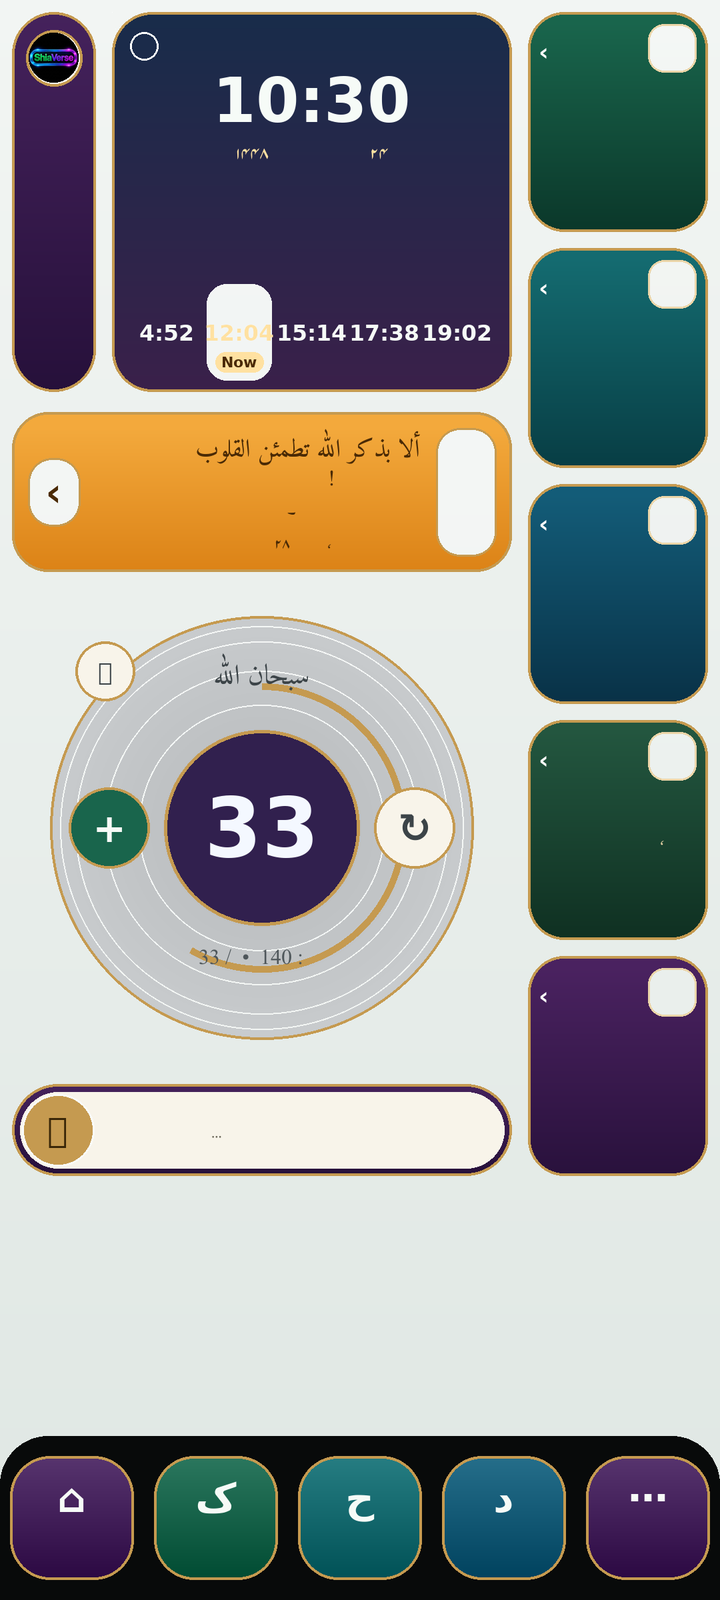
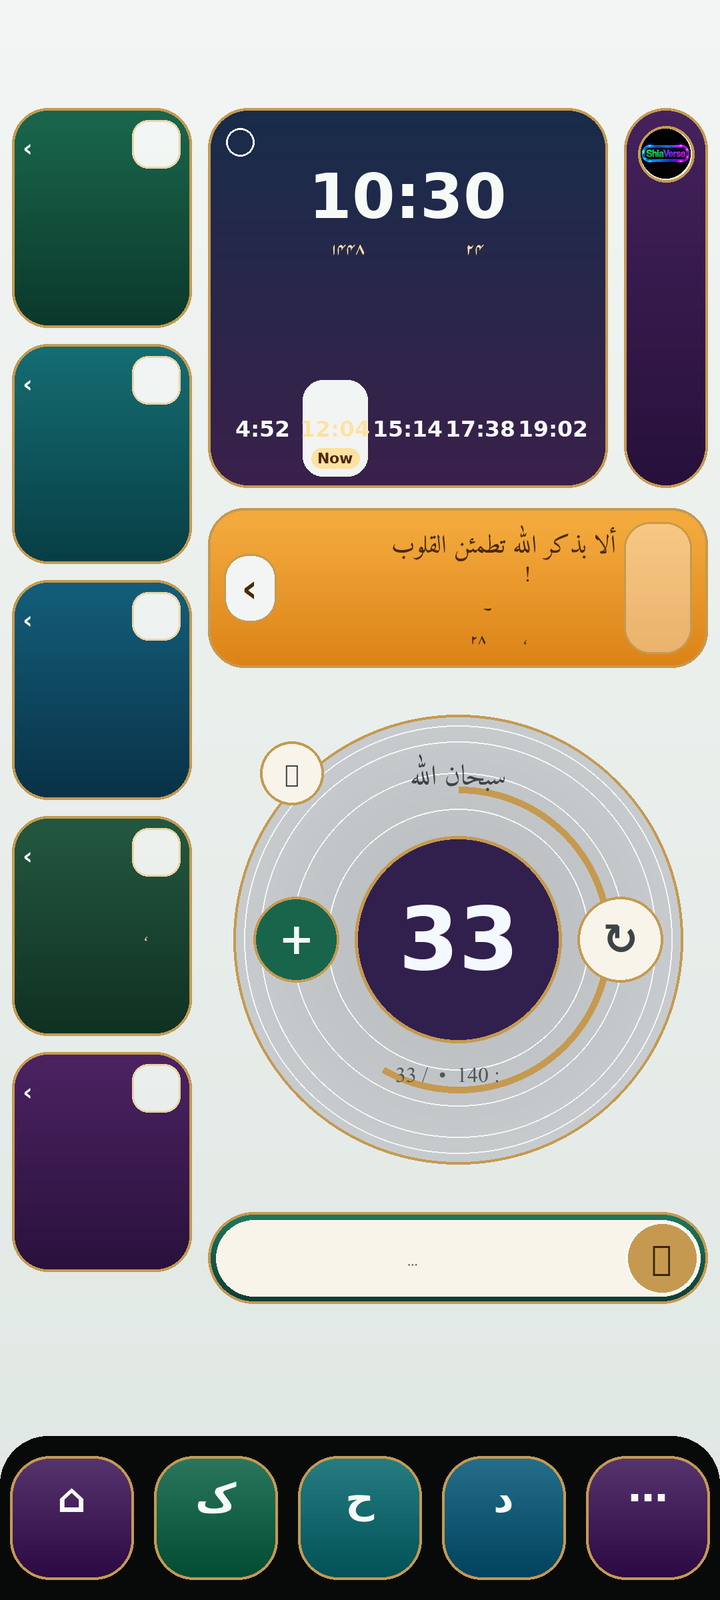
Lay the ayah/hadith tag out along the moment card's edge
A rotated box reads its constraints bottom-up, so the row now lays its members
out top-to-bottom and the tag is a full-height pill; the preview renderer draws
the same thing. Docs and README name the preview and the 610-tall canvas.

diff --git a/app/lib/widgets/home_dashboard.dart b/app/lib/widgets/home_dashboard.dart
@@ -802,6 +802,10 @@ class _MomentCardState extends State<_MomentCard> {
             ],
           ),
           child: Row(
+            // The tag is written along the card's edge (rotated a quarter
+            // turn), and a turned box reads its constraints bottom-up: the
+            // row's boxes are laid out from the top.
+            verticalDirection: VerticalDirection.up,
             crossAxisAlignment: CrossAxisAlignment.stretch,
             children: <Widget>[
               _MomentTag(kind: line.kind),
@@ -895,11 +899,12 @@ class _MomentTag extends StatelessWidget {
   Widget build(BuildContext context) {
     final palette = DashboardPalette.of(context);
     return Container(
-      width: 30,
+      width: 34,
+      padding: const EdgeInsets.symmetric(horizontal: 4),
       alignment: Alignment.center,
       decoration: BoxDecoration(
-        color: Colors.white.withValues(alpha: 0.34),
-        borderRadius: BorderRadius.circular(12),
+        color: Colors.white.withValues(alpha: 0.36),
+        borderRadius: BorderRadius.circular(13),
         border: Border.all(color: palette.gold.withValues(alpha: 0.55)),
       ),
       child: RotatedBox(
@@ -911,7 +916,8 @@ class _MomentTag extends StatelessWidget {
             maxLines: 1,
             style: TextStyle(
               fontFamily: kUrduFont,
-              fontSize: 11,
+              fontSize: 11.5,
+              height: 1.1,
               fontWeight: FontWeight.w800,
               color: palette.momentInk,
             ),

diff --git a/scripts/render_home_preview.py b/scripts/render_home_preview.py
@@ -31,6 +31,7 @@ OUTPUT = ROOT / "docs" / "previews" / "home-1-11.png"
 
 S = 3  # supersampling
 W, H = 360, 800
+CANVAS_H = 610  # the dashboard's own canvas; it is centred in what is left
 PAD = 6
 GAP = 8
 ROW_GAP = 10
@@ -144,9 +145,14 @@ def main() -> None:
     canvas.paste(vgradient((W * S, H * S), BG_TOP, BG_BOTTOM).convert("RGBA"), (0, 0))
 
     dock_h = DOCK_PAD * 2 + DOCK_SQUARE
-    top = PAD
-    left_w = W - 2 * PAD - RIGHT_W - GAP
-    block_h = RIGHT_CARD_H * 5 + GAP * 4
+    # The dashboard is one canvas, scaled as a piece and centred in the space
+    # the phone has left above the panel (360 x 800 here: scale 1).
+    top = round((H - dock_h - CANVAS_H) / 2)
+    left_w = W - 2 * PAD - RIGHT_W - GAP      # 242
+    left_x = PAD + RIGHT_W + GAP             # 104
+    rail_x = left_x + left_w - RAIL_W        # 304
+    card_w = left_w - RAIL_W - GAP           # 192
+    block_h = CANVAS_H - 2 * PAD
 
     # ---- 1: the ShiaVerse rail
     rail = card((RAIL_W, PRAYER_H), 21, PLUM, PLUM_DARK)
@@ -160,10 +166,10 @@ def main() -> None:
     spine = Image.new("RGBA", (RAIL_W * S, (PRAYER_H - 60) * S), (0, 0, 0, 0))
     left(ImageDraw.Draw(spine), RAIL_W / 2, (PRAYER_H - 60) / 2, "ShiaVerse", latin(14, True), GOLD_SOFT, anchor="mm")
     rail.alpha_composite(spine.rotate(-90, expand=True), (0, round(50 * S)))
-    canvas.alpha_composite(rail, (PAD * S, top * S))
+    canvas.alpha_composite(rail, (rail_x * S, top * S))
 
     # ---- 2: the mini prayer card
-    pw = left_w - RAIL_W - GAP
+    pw = card_w
     sky = Image.new("RGBA", (round(pw * S), round(PRAYER_H * S)), (0, 0, 0, 0))
     mask = Image.new("L", sky.size, 0)
     ImageDraw.Draw(mask).rounded_rectangle((0, 0, sky.size[0] - 1, sky.size[1] - 1), radius=round(20 * S), fill=255)
@@ -197,7 +203,7 @@ def main() -> None:
                 fill=(255, 225, 161),
             )
             left(sd, x + cell / 2, 175, "Now", latin(7.5, True), (74, 42, 5), anchor="mm")
-    canvas.alpha_composite(sky, ((PAD + RAIL_W + GAP) * S, top * S))
+    canvas.alpha_composite(sky, (left_x * S, top * S))
 
     # ---- 8: ayah / hadith of the moment
     moment = card((left_w, MOMENT_H), 18, AMBER, AMBER_DARK, bias=-0.1)
@@ -208,14 +214,19 @@ def main() -> None:
     ):
         right(md, left_w - 46, 26 + index * 15, line, urdu(11), MOMENT_INK)
     right(md, left_w - 46, 60, "سورہ الرعد، آیت ۲۸", urdu(9), MOMENT_INK)
-    md.rounded_rectangle(
-        (round((left_w - 38) * S), round(8 * S), round((left_w - 8) * S), round((MOMENT_H - 8) * S)),
-        radius=round(12 * S),
-        fill=(255, 255, 255, 90),
+    tag = Image.new("RGBA", (34 * S, (MOMENT_H - 14) * S), (0, 0, 0, 0))
+    td = ImageDraw.Draw(tag)
+    td.rounded_rectangle(
+        (0, 0, tag.size[0] - 1, tag.size[1] - 1),
+        radius=round(13 * S),
+        fill=(255, 255, 255, 92),
         outline=GOLD,
         width=round(1 * S),
     )
-    right(md, left_w - 23, MOMENT_H / 2 - 6, "آیت", urdu(11), MOMENT_INK, anchor="ma")
+    word = Image.new("RGBA", tag.size, (0, 0, 0, 0))
+    right(ImageDraw.Draw(word), 17, (MOMENT_H - 14) / 2, "آیت", urdu(11.5), MOMENT_INK, anchor="mm")
+    tag.alpha_composite(word.rotate(-90, expand=True))
+    moment.alpha_composite(tag, (round((left_w - 42) * S), round(7 * S)))
     md.rounded_rectangle(
         (round(8 * S), round((MOMENT_H / 2 - 17) * S), round(34 * S), round((MOMENT_H / 2 + 17) * S)),
         radius=round(12 * S),
@@ -224,7 +235,7 @@ def main() -> None:
         width=round(1 * S),
     )
     left(md, 21, MOMENT_H / 2, "‹", latin(20, True), MOMENT_INK, anchor="mm")
-    canvas.alpha_composite(moment, (PAD * S, (top + PRAYER_H + ROW_GAP) * S))
+    canvas.alpha_composite(moment, (left_x * S, (top + PRAYER_H + ROW_GAP) * S))
 
     # ---- 9: the tasbeeh dial
     dial_top = top + PRAYER_H + ROW_GAP + MOMENT_H + ROW_GAP
@@ -303,11 +314,11 @@ def main() -> None:
             anchor="mm",
         )
     right(dd, diameter / 2, radius + bead / 2 + 9, "آج: 140  •  / 33", urdu(10.5), (78, 86, 90), anchor="ma")
-    canvas.alpha_composite(dial, (round((PAD + left_w / 2) * S - radius * S), round(dial_top * S + dial_box * S / 2 - radius * S)))
+    canvas.alpha_composite(dial, (round((left_x + left_w / 2) * S - radius * S), round(dial_top * S + dial_box * S / 2 - radius * S)))
 
     # ---- 10: the search bar
     search_top = top + block_h - SEARCH_H
-    search = card((left_w, SEARCH_H), SEARCH_H / 2, PLUM, PLUM_DARK)
+    search = card((left_w, SEARCH_H), SEARCH_H / 2, (30, 122, 94), (14, 59, 52))
     sl = ImageDraw.Draw(search)
     sl.rounded_rectangle(
         (round(4 * S), round(4 * S), round((left_w - 4) * S), round((SEARCH_H - 4) * S)),
@@ -315,17 +326,17 @@ def main() -> None:
         fill=PAPER,
     )
     sl.ellipse(
-        (round(5 * S), round(5 * S), round((SEARCH_H - 5) * S), round((SEARCH_H - 5) * S)),
+        (round((left_w - SEARCH_H + 5) * S), round(5 * S), round((left_w - 5) * S), round((SEARCH_H - 5) * S)),
         fill=GOLD,
         outline=(255, 255, 255, 200),
         width=round(1 * S),
     )
-    left(sl, SEARCH_H / 2, SEARCH_H / 2, "⌕", latin(17, True), (58, 39, 8), anchor="mm")
+    left(sl, left_w - SEARCH_H / 2, SEARCH_H / 2, "⌕", latin(17, True), (58, 39, 8), anchor="mm")
     right(sl, left_w - 14, SEARCH_H / 2 + 1, "پوری لائبریری میں تلاش کریں…", urdu(11.5), (110, 106, 92), anchor="rm")
-    canvas.alpha_composite(search, (PAD * S, search_top * S))
+    canvas.alpha_composite(search, (left_x * S, search_top * S))
 
     # ---- 3-7: the five collections
-    x0 = PAD + left_w + GAP
+    x0 = PAD
     for index, (title, slogan, glyph, start, end) in enumerate(SECTIONS):
         y = top + index * (RIGHT_CARD_H + GAP)
         section = card((RIGHT_W, RIGHT_CARD_H), 18, start, end, bias=-0.05)

diff --git a/docs/home-dashboard-1-11.md b/docs/home-dashboard-1-11.md
@@ -11,8 +11,8 @@ shapes, sizes and positions.
 ## One canvas, scaled as a piece
 
 `HomeDashboard` (`app/lib/widgets/home_dashboard.dart`) draws everything on a
-fixed **352 × 594** design canvas and scales that canvas to whatever the phone
-offers: `scale = min(width / 352, height / 594)`, never above `1.45` so a tablet
+fixed **352 × 610** design canvas and scales that canvas to whatever the phone
+offers: `scale = min(width / 352, height / 610)`, never above `1.45` so a tablet
 shows the same dashboard centred instead of stretching it. A 360 dp phone gets
 scale ≈ 1 (the design's own measurements); a 640 dp-tall phone gets ≈ 0.94 and
 still shows the whole dashboard, because the whole screen shrinks together
@@ -23,7 +23,7 @@ The design units are the constants at the top of that file:
 
 | Piece | Size |
 |---|---|
-| Canvas (with its 6 px padding) | 352 × 594 |
+| Canvas (with its 6 px padding) | 352 × 610 |
 | Right column (containers 3–7) | 90 wide, 110 tall each, 8 between |
 | Left column | 242 wide |
 | Rail (1) | 42 × 190 |
@@ -32,6 +32,14 @@ The design units are the constants at the top of that file:
 | Dial (9) | `min(width, height) × 0.9` of whatever is left, ≈ 212 |
 | Search bar (10) | 242 × 46 |
 
+The two columns are laid out as the design draws them for an Urdu reader: the
+**ShiaVerse rail down the right edge** (the near side) with the wide column —
+prayer card, moment card, dial, search bar — to its left, and the five collection
+cards down the left edge.
+
+`scripts/render_home_preview.py` draws the same dashboard with the app's fonts
+and the same measurements; `docs/previews/home-1-11.png` is its output.
+
 ## The containers
 
 | # | Widget | What it does |
@@ -39,7 +47,7 @@ The design units are the constants at the top of that file:
 | 1 | `_TitleRail` | The ShiaVerse mark and the name down the spine (`RotatedBox`, quarter turn 1). |
 | 2 | `_MiniPrayerCard` | `SkyBackdrop` (animated: dawn, day, evening, night), the place, the live clock, the Hijri date, and the five prayers in one strip — the running one lit and tagged **Now**, the next one outlined in gold with its countdown. Tapping opens the timings screen; the button at the end of the place row re-detects the location. |
 | 3–7 | `_SectionCard` | One `HomeSection` each: قرآنِ کریم, احادیث, مفاتیح الجنان و صحیفہ سجادیہ, نہج البلاغہ, دینی مسائل. Title, one small slogan, and the collection's mark. Not installed → the download mark and the data screen. |
-| 8 | `_MomentCard` | آیت / حدیثِ وقت, see below. |
+| 8 | `_MomentCard` | آیت / حدیثِ وقت, see below. The `آیت` / `حدیث` tag is a pill on the card's edge, with its word rotated a quarter turn; the row it sits in lays its members out top-to-bottom, because a turned box reads its constraints bottom-up. |
 | 9 | `_TasbeehDial` | See below. |
 | 10 | `_SearchPill` | Opens `SearchScreen(autofocus: true)` — the search itself is unchanged. |
 | 11–15 | `HomeDockBar` | گھر, قرآن, احادیث, دعائیں, مزید. |

diff --git a/README.md b/README.md
@@ -218,7 +218,9 @@ A collection whose books are not installed shows the download mark and opens the
 data screen; the download notice and the search-index progress are one slim strip
 above the dashboard, and both disappear on their own.
 
-See [`docs/home-dashboard-1-11.md`](docs/home-dashboard-1-11.md).
+See [`docs/home-dashboard-1-11.md`](docs/home-dashboard-1-11.md), and
+`docs/previews/home-1-11.png` for the layout re-drawn at the app's own
+measurements (`scripts/render_home_preview.py`).
 
 ## App name and icon
 
